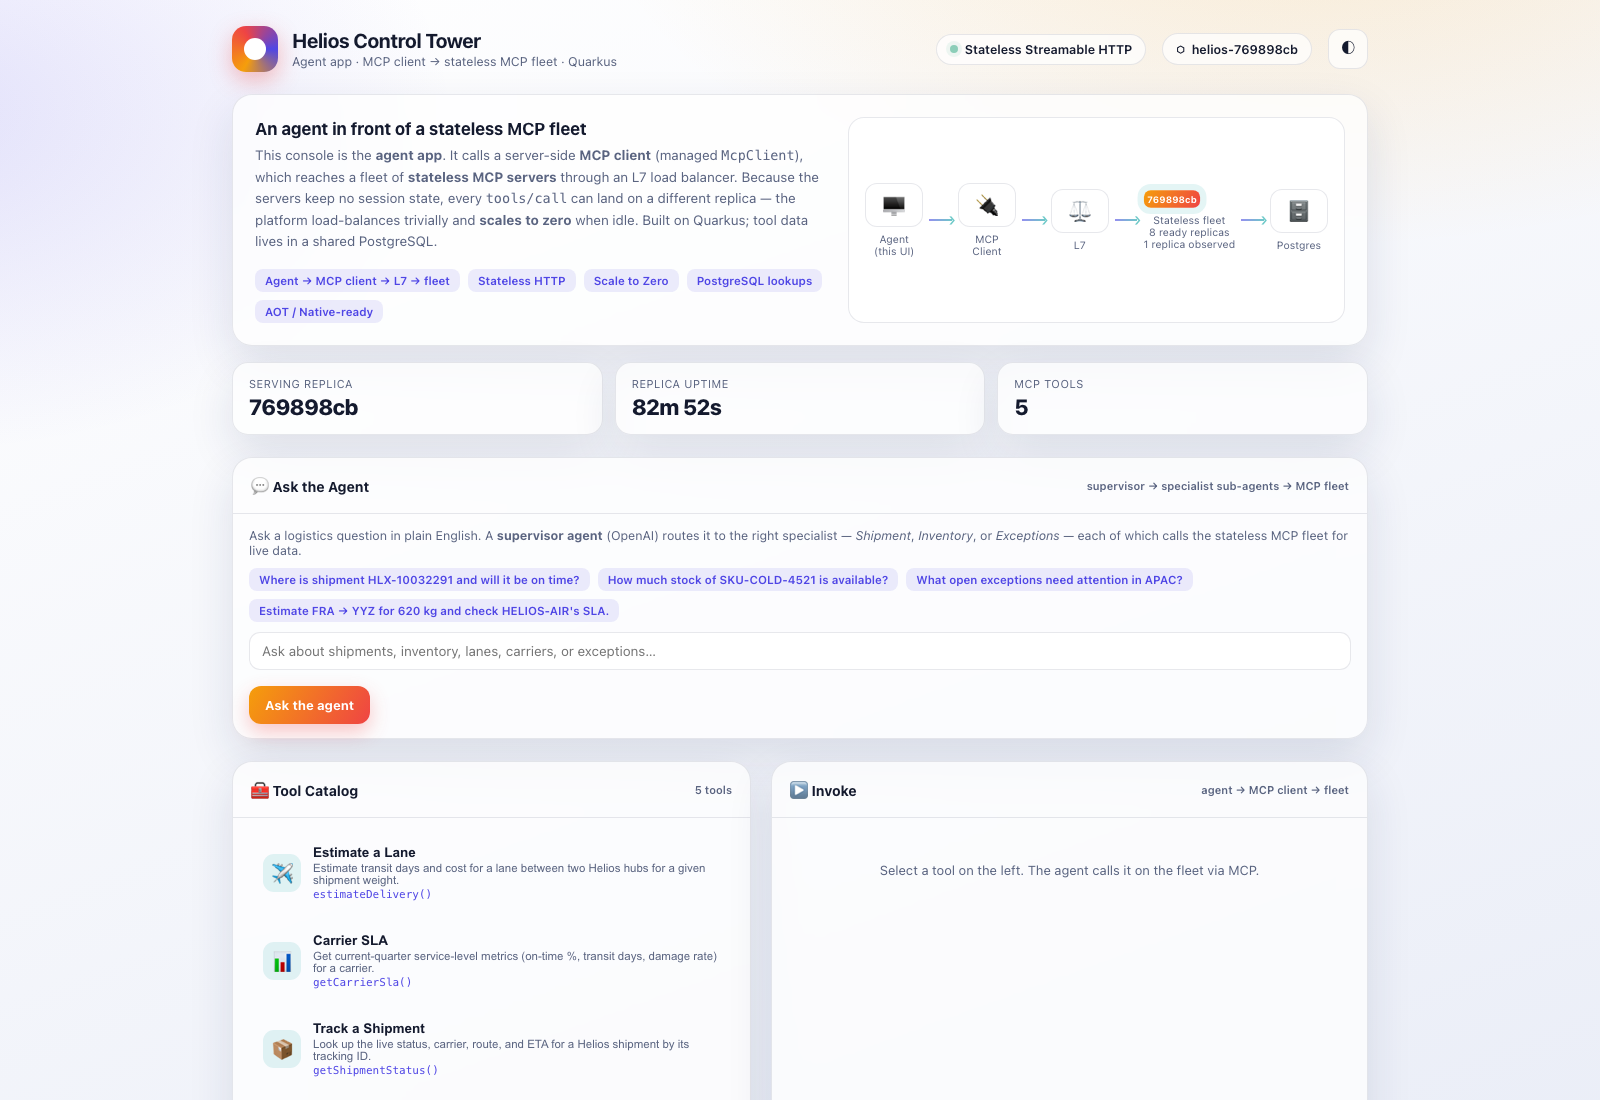
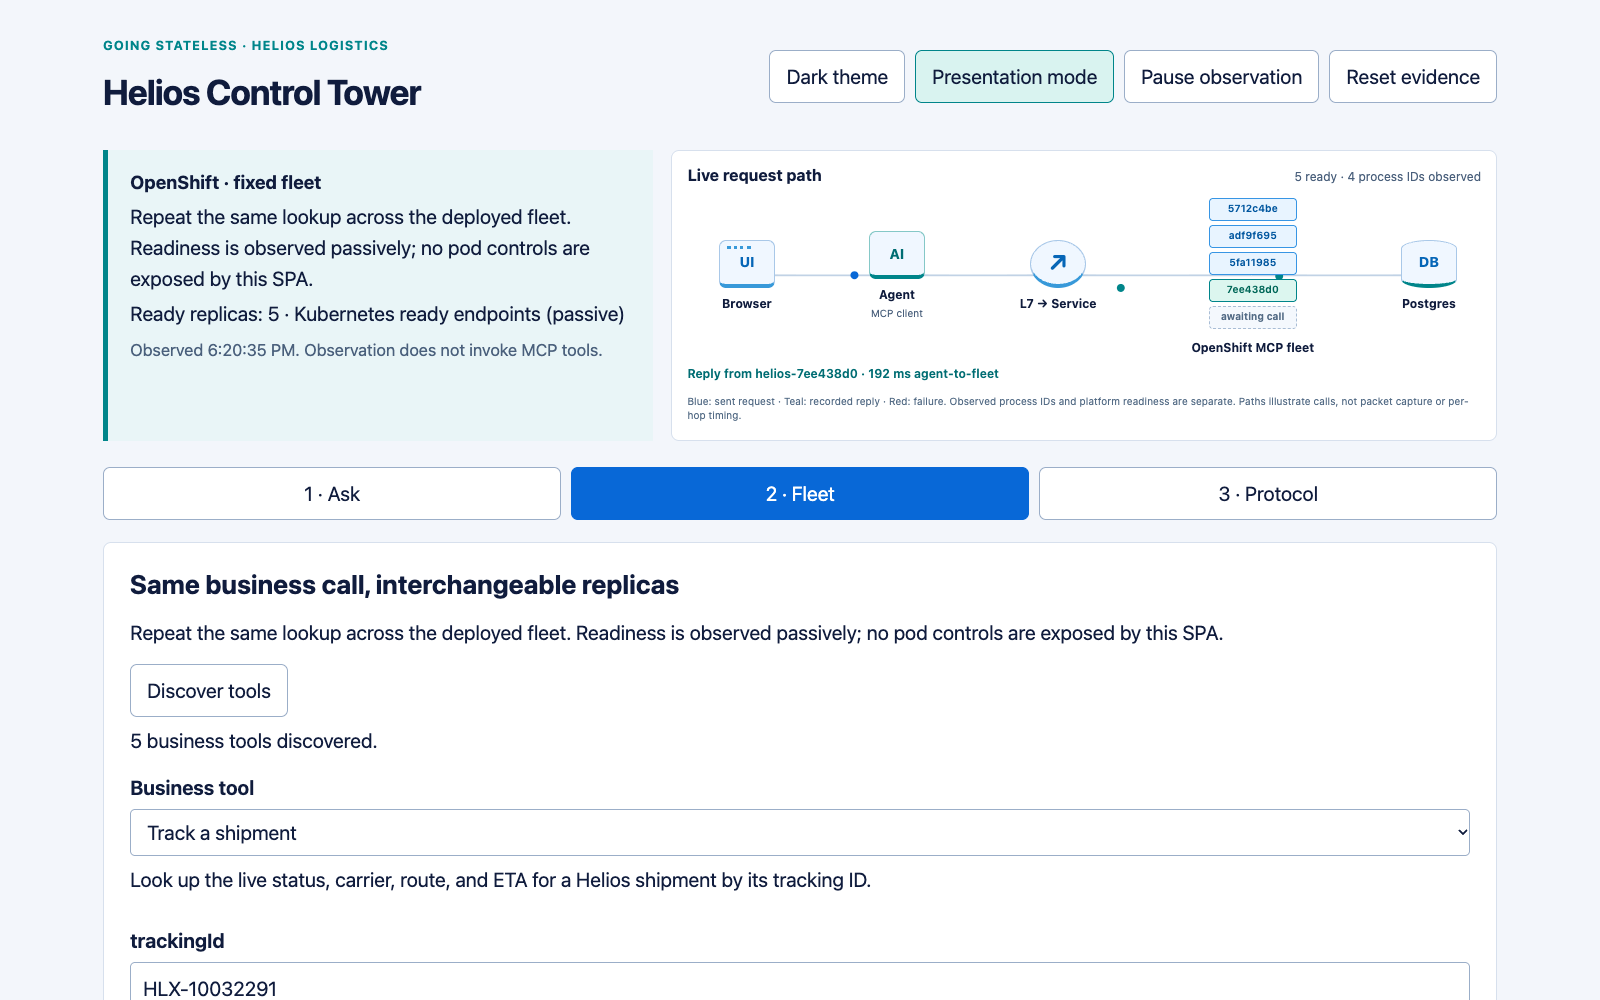
Refresh GitHub Pages for the evidence-driven demo console

diff --git a/docs/getting-started.md b/docs/getting-started.md
@@ -7,7 +7,7 @@ Run Helios as two development processes for the quickest feedback, or launch the
 - Java 25+
 - Quarkus CLI
 - Docker or Podman
-- An `OPENAI_API_KEY`
+- An `OPENAI_API_KEY` for natural-language questions and `start-cluster.sh`
 
 The model defaults to `gpt-5.6-sol`. Override it with `HELIOS_LLM_MODEL` when needed.
 
@@ -35,7 +35,8 @@ Open [localhost:8090](http://localhost:8090/). The MCP endpoint is available at 
 !!! note "The SPA runs in the agent module"
     In dev mode, `http://localhost:8080/` redirects to the MCP server's Dev UI. The console SPA
     runs at `http://localhost:8090/` and needs the second process above. Export `OPENAI_API_KEY`
-    in that second terminal; a missing key prevents the agent from starting. In the cluster
+    in that second terminal to enable natural-language questions. Without a key, the SPA and
+    direct tool calls still work; asking the agent returns a clear configuration message. In the cluster
     setup below, the SPA uses port `8080` instead.
 
 If dev mode appears stuck, check `curl http://localhost:8080/q/health/ready`. A response with
@@ -55,11 +56,22 @@ export OPENAI_API_KEY=sk-...
 open http://localhost:8080
 ```
 
-Choose a tool and select **Run 5×**. The serving instance changes while the business result stays the same.
+Open **2 · Fleet**, choose a tool, and select **Repeat 5 calls**. The console sends five identical, sequential business requests and compares their results. Each completed response carries its own replica evidence. A 1.2-second pause between calls makes the traffic visible; that pause is excluded from recorded call timings.
+
+All five local replicas can serve requests. In OpenShift, five calls need not visit five distinct processes; routing and observed process counts are shown as measured.
 
 ```bash
 ./stop-cluster.sh
 ```
+
+## Read the console
+
+- **Ask:** enter a question, read the answer, and expand the actual specialist tool executions. Inspect a step's arguments, business result, and protocol evidence.
+- **Fleet:** repeat a business lookup, compare results, or try an invalid tracking ID. Repeating five calls is disabled in single-server dev mode.
+- **Protocol:** inspect allowlisted headers and the logical JSON-RPC request from the same completed tool call. The expected protocol version is separate from observed evidence.
+- **Live request path:** follow the animated request and reply. Counts of ready endpoints and observed process IDs have different meanings. A last recorded reply remains historical evidence when readiness is zero.
+
+Use **Presentation mode** for larger text, **Dark theme** for the alternate palette, **Pause observation** to stop future background readiness checks, and **Reset evidence** to clear the displayed run. The UI supports reduced-motion preferences.
 
 ## Ask a natural-language question
 
@@ -69,7 +81,7 @@ curl -s localhost:8090/agent/ask \
   -d '{"question":"Where is shipment HLX-10032291 and will it arrive on time?"}'
 ```
 
-Try inventory, delivery estimate, carrier SLA, or regional exception questions next.
+The response includes the answer and a request-specific trace of actual tool executions. Try inventory, delivery estimate, carrier SLA, or regional exception questions next. Questions are limited to 2,000 characters and two concurrent requests; the agent has a 90-second deadline. Direct tool calls remain available when the AI provider is unavailable.
 
 ## Package the project
 
@@ -77,5 +89,17 @@ Try inventory, delivery estimate, carrier SLA, or regional exception questions n
 ./mvnw clean package
 ./mvnw clean package -Dnative
 ```
+
+## Verify changes
+
+Run `./mvnw verify` for the Java checks. To check the console, run:
+
+```bash
+npm ci
+npx playwright install chromium
+npm run test:spa
+```
+
+Browser checks cover all four environments, business-result consistency, safe rendering, duplicate-submit prevention, passive observation, topology evidence, mobile layout, and reduced motion. GitHub Actions runs both Java and browser checks.
 
 Continue with [Architecture](architecture.md) to understand the request path, or [Deployment](deployment.md) to move the fleet to OpenShift.

diff --git a/docs/architecture.md b/docs/architecture.md
@@ -35,15 +35,22 @@ The explicit toolbox bridges are intentional. Giving every specialist the entire
 
 ## Why stateless MCP matters
 
-With `quarkus.mcp.server.http.streamable.auto-init=true`, a request needs no initialization handshake or sticky session. All durable state lives in PostgreSQL, allowing:
+Both tiers explicitly use **MCP 2026-07-28**, with no protocol sessions. Calls carry their own protocol context, and the MCP server reports transient connections. Streamable HTTP existed before this revision; the absence of protocol sessions does not make the transport JSON-only or rule out request-scoped SSE.
 
-- per-request load balancing;
-- simple horizontal scaling;
-- safe replica replacement;
-- scale-to-zero without losing session state.
+The application keeps durable business data in shared PostgreSQL. Interchangeable replicas can handle independent requests without session affinity. Database connections, downstream APIs, tenant boundaries, and durable state still need their own design. Knative enables scale-to-zero through autoscaler configuration; startup time and active streams affect the result.
+
+## Evidence and live topology
+
+A server guardrail attaches demo evidence to each tool result in `_meta["dev.helios/evidence"]`: the serving process ID, uptime, transient-connection flag, allowlisted MCP headers, and the logical request. It does not copy authorization headers. The agent separates that evidence from the business result, so comparing replicas does not compare process IDs or timings.
+
+Natural-language answers include actual monitored specialist tool executions correlated to a unique question ID. Tool evidence stays in execution attributes rather than the text sent to the model. Temporary trace collection is removed after each request; the framework's recent monitored-session history is bounded to eight sessions.
+
+The topology animates browser actions and confirmed replies. It highlights a process only when same-call evidence identifies it. AI tool paths are shown after the completed trace arrives. Paths and animation speed do not measure individual network hops. SDK-returned tool errors may omit metadata; the UI reports the error without inventing a serving replica.
+
+Readiness is observed independently: Compose uses a DNS address estimate, while OpenShift uses a read-only, namespace-scoped role to retrieve two named Kubernetes Endpoints resources. Dev mode and observation failures report unknown rather than inventing a count. Ready endpoints, observed process IDs, and running pods are different measurements.
 
 ## Tool boundary
 
-Every tool uses Jakarta Bean Validation before database access. Invalid identifiers, sizes, or values fail at the boundary rather than leaking into business logic.
+Typed tool parameters describe the contract. Explicit service checks validate identifiers, sizes, and values before database access. Invalid business inputs become structured MCP tool errors; transport failures remain distinct failures.
 
-The transport also derives standard `Mcp-Method` and `Mcp-Name` headers from each JSON-RPC request, giving gateways enough context for method- and tool-aware routing or policy.
+The MCP client also derives standard `Mcp-Method` and `Mcp-Name` headers from each JSON-RPC request, giving gateways enough context for method- and tool-aware routing or policy.

diff --git a/docs/deployment.md b/docs/deployment.md
@@ -39,7 +39,7 @@ Build and rollout failures stop deployment instead of reporting success.
 oc scale deploy/stateless-mcp-quarkus --replicas=8
 ```
 
-The console distinguishes ready pods from the replicas observed serving requests.
+Open **2 · Fleet** and select **Repeat 5 calls**. The console distinguishes platform ready endpoints from process IDs observed in completed tool calls and compares the returned business results. Five calls do not guarantee five distinct replicas. The topology adapts to the observed fleet size; scaling and routing remain platform responsibilities.
 
 ![OpenShift topology in fixed-fleet mode](images/openshift-normal-pods.png)
 
@@ -50,7 +50,13 @@ The console distinguishes ready pods from the replicas observed serving requests
 oc get pod -l serving.knative.dev/service=stateless-mcp-knative -w
 ```
 
-After the idle window, MCP pod count reaches zero. Passive readiness and instance polling do not wake the service. Invoke a tool in the console to cold-start it again.
+The switch disables the MCP client's periodic health traffic and changes the agent readiness probe to its own liveness endpoint. All three SDK list-change subscriptions—tools, prompts, and resources—are disabled in the application configuration; an unused notification stream can otherwise keep the revision active.
+
+Keep the SPA open while the service idles. Its background observation reads platform metadata without calling the MCP fleet. In Knative mode, opening a fresh page does not automatically discover tools; **Discover tools (may activate fleet)** is an explicit action that can wake the service. You can discover tools first, then wait for the next idle period before invoking one.
+
+After the configured idle window, confirm zero running MCP pods in OpenShift. Zero ready endpoints alone does not establish zero running pods. The topology shows zero readiness separately from the last recorded replica reply.
+
+From a recent zero-ready observation, select **Repeat 5 calls** to measure the first invocation and subsequent calls. These are end-to-end measurements that include network and activation costs, not pure JVM startup times. Autoscaler settings, startup, downstream connections, and active streams affect scale-to-zero and activation.
 
 ![OpenShift topology with the Knative Service](images/openshift-knative-service.png)
 
@@ -62,3 +68,12 @@ Return to the regular fleet and restore its previous replica count:
 
 !!! tip "Conference demo sequence"
     Dev mode → five-replica local cluster → OpenShift fleet → Knative scale-to-zero.
+
+## Where the SPA changes apply
+
+The Ask, Fleet, Protocol, and animated topology views apply to every environment. The same demo commands remain in use.
+
+- **Dev mode:** a direct MCP path and one server; repeated fleet calls are disabled and platform readiness is unknown.
+- **Local cluster:** nginx routing, five configured slots, a DNS address estimate, and actual serving-process evidence.
+- **OpenShift:** L7/Service routing, passive Kubernetes endpoint readiness, and actual serving-process evidence.
+- **Knative:** serverless routing, explicit discovery, zero-ready and historical-reply displays, and first-after-zero versus subsequent call timing. Background observation does not activate the fleet.

diff --git a/docs/index.md b/docs/index.md
@@ -8,7 +8,7 @@ hide:
   <div class="hero__copy">
     <p class="hero__eyebrow">Quarkus · Java 25 · Model Context Protocol</p>
     <h1>Agent intelligence.<br><span>Stateless infrastructure.</span></h1>
-    <p class="hero__lead">Build an OpenAI-powered supervisor that routes natural-language requests to specialist agents—and scales a fleet of MCP tool servers from zero to many without session affinity.</p>
+    <p class="hero__lead">Build an OpenAI-powered supervisor that routes natural-language requests to specialist agents—and runs interchangeable MCP tool replicas, with platform-configured scaling from zero to many.</p>
     <div class="hero__actions">
       <a class="md-button md-button--primary" href="getting-started/">Run Helios locally</a>
       <a class="md-button" href="architecture/">Explore the architecture</a>
@@ -30,7 +30,7 @@ hide:
   <div class="stat"><strong>5</strong><span>domain tools</span></div>
   <div class="stat"><strong>3</strong><span>specialist agents</span></div>
   <div class="stat"><strong>No affinity</strong><span>requests reach any replica</span></div>
-  <div class="stat"><strong>0→N</strong><span>Knative replicas</span></div>
+  <div class="stat"><strong>0→N</strong><span>configured Knative scaling</span></div>
 </div>
 
 ## Choose your path
@@ -69,15 +69,21 @@ hide:
     <p class="panel-label">MCP tier</p>
     <h3>Disposable compute, durable data</h3>
     <p>Identical Quarkus replicas expose validated business tools. They hold no session state, so a load balancer can send every call to a different instance.</p>
-    <ul><li>Streamable HTTP</li><li>Jakarta validation</li><li>Shared PostgreSQL state</li></ul>
+    <ul><li>Streamable HTTP</li><li>Typed contracts and input checks</li><li>Shared PostgreSQL state</li></ul>
   </div>
 </div>
+
+## Live request flow and same-call evidence
+
+The console now has **Ask**, **Fleet**, and **Protocol** views. Its top-right topology animates outbound actions in blue, recorded replies in teal, and failures in red. A tool response identifies its serving process; platform readiness is reported separately. AI tool paths appear when the completed execution trace returns.
+
+The visualization adapts to dev mode, the five-replica local cluster, the OpenShift fleet, and Knative. It illustrates application calls rather than packet capture or per-hop timing. Background observation does not invoke MCP tools.
 
 ## A demo you can see, not just describe
 
 <figure class="showcase">
   <img src="images/helios-control-tower.png" alt="Helios Control Tower console showing the stateless MCP fleet">
-  <figcaption><strong>Helios Control Tower</strong><span>Ask an agent, invoke raw tools, and watch successive requests rotate across ready replicas.</span></figcaption>
+  <figcaption><strong>Helios Control Tower</strong><span>Follow animated requests and replies, inspect actual specialist tools, and distinguish ready endpoints from replicas observed serving calls.</span></figcaption>
 </figure>
 
 <div class="cta-band">
